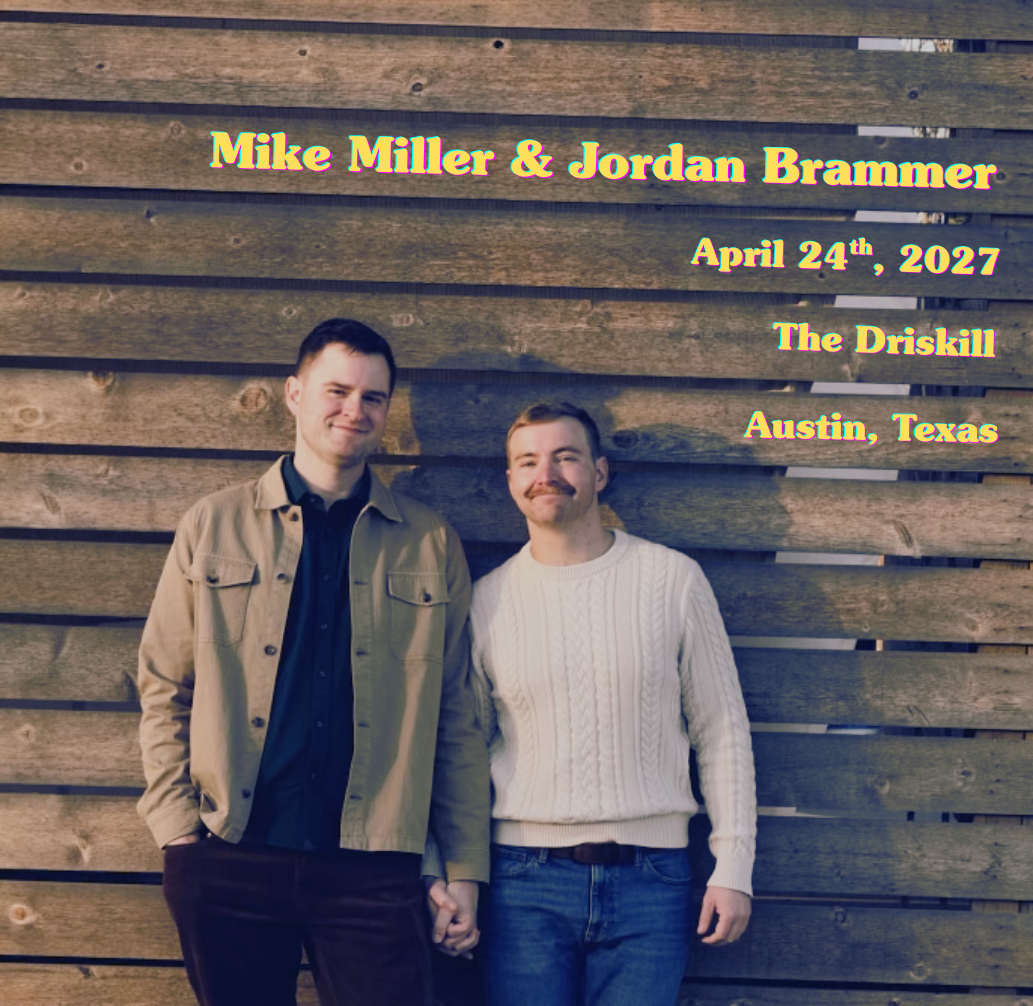
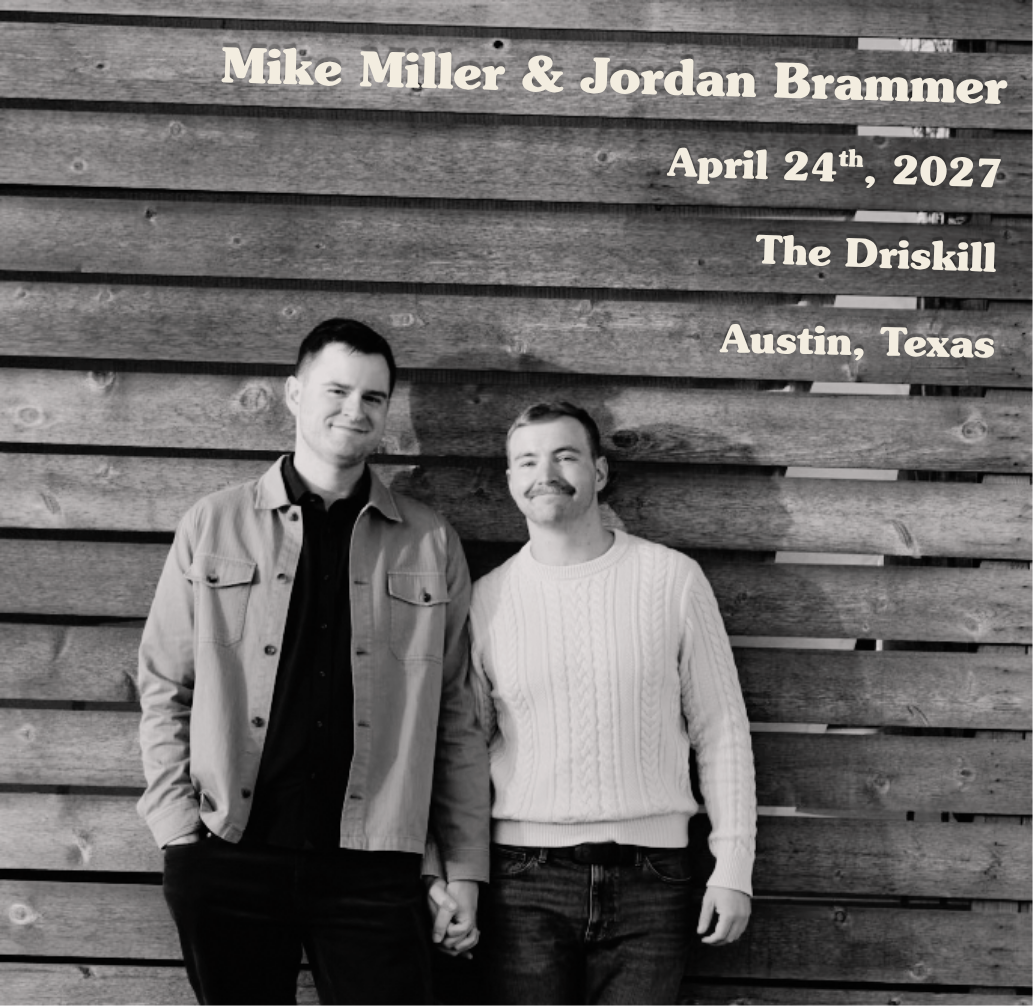
changed cover image

diff --git a/index.html b/index.html
@@ -3243,7 +3243,7 @@
 
         <!-- SLEEVE FRONT COVER (z-index: 10, sits in front of vinyl-record with notch cutout) -->
         <div class="sleeve-front">
-          <img id="sleeve-cover-image" src="./Weston-5.png" alt="Mike & Jordan Album Cover" class="sleeve-photo" referrerPolicy="no-referrer" onerror="this.onerror=null; this.src='https://raw.githubusercontent.com/fsumad1190/MJ-STD/main/Weston-5.png'; if(!this.src) this.src='./Weston-5.png';" />
+          <img id="sleeve-cover-image" src="./Weston-4.png" alt="Mike & Jordan Album Cover" class="sleeve-photo" referrerPolicy="no-referrer" onerror="this.onerror=null; this.src='https://raw.githubusercontent.com/fsumad1190/MJ-STD/main/Weston-4.png'; if(!this.src) this.src='./Weston-4.png';" />
         </div><!-- /sleeve-front -->
 
       </div><!-- /scene-group -->
